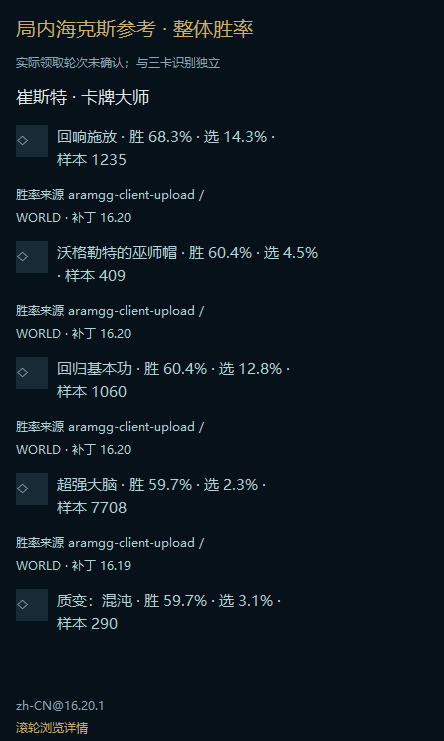
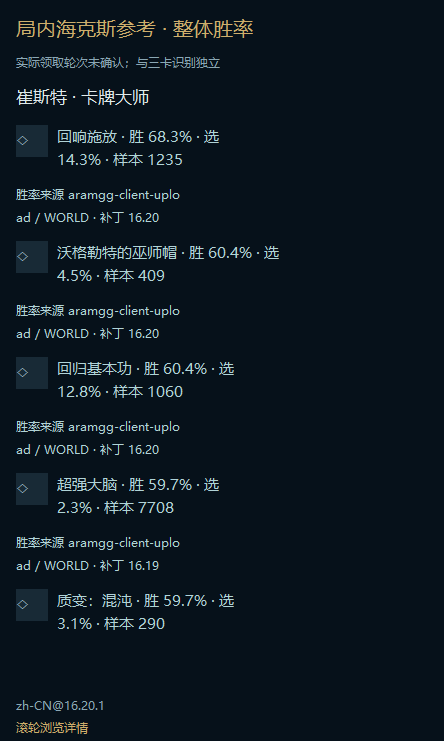
fix(rust): fit secondary reference statistics and report missing data

diff --git a/rust/crates/fuze-worker-host/src/champ_select.rs b/rust/crates/fuze-worker-host/src/champ_select.rs
@@ -699,9 +699,9 @@ unsafe fn draw_side(hwnd: HWND, dc: HDC, state: &State) {
                 &row.text,
                 ((r.right - x(70))
                     / x(if crate::i18n::locale() == "en-US" {
-                        7
+                        9
                     } else {
-                        13
+                        16
                     }))
                 .max(8) as usize,
             );
@@ -740,7 +740,16 @@ unsafe fn draw_side(hwnd: HWND, dc: HDC, state: &State) {
             );
         }
     } else {
-        line("正在读取本地详情…", x(100), 15, rgb(176, 211, 215));
+        line(
+            if state.reply.error.is_some() {
+                "本地详情不可用；可暂停后更新数据"
+            } else {
+                "正在读取本地详情…"
+            },
+            x(100),
+            15,
+            rgb(176, 211, 215),
+        );
     }
     if let Some(view) = &state.view {
         line(&view.version, r.bottom - x(50), 12, rgb(138, 167, 180));
